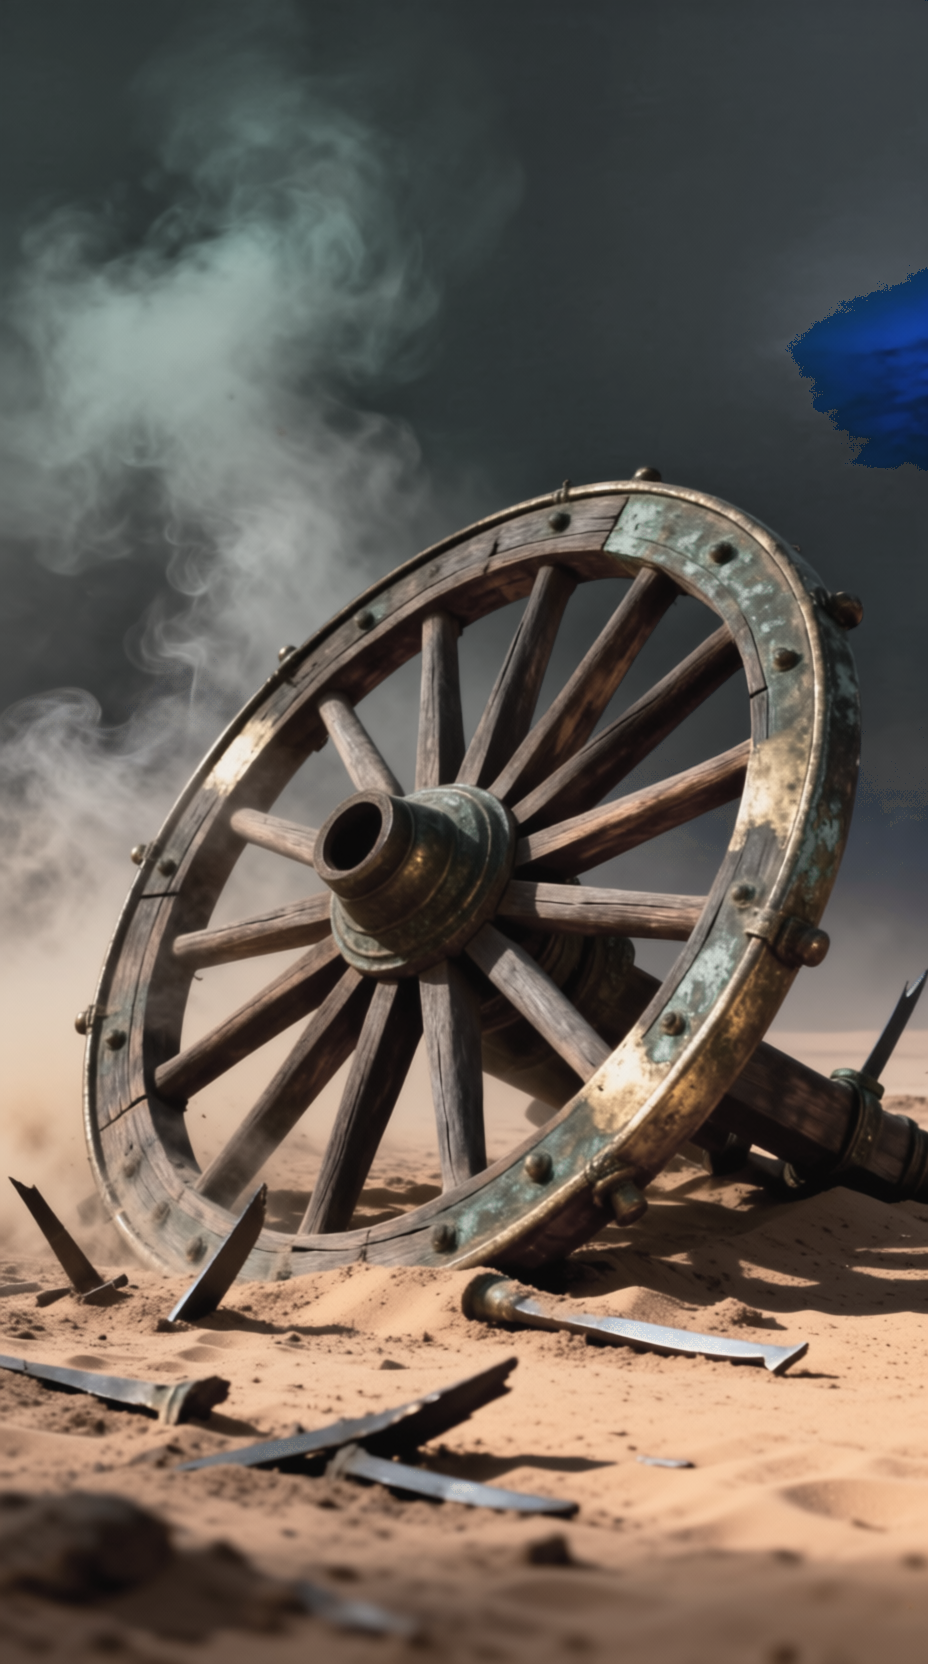
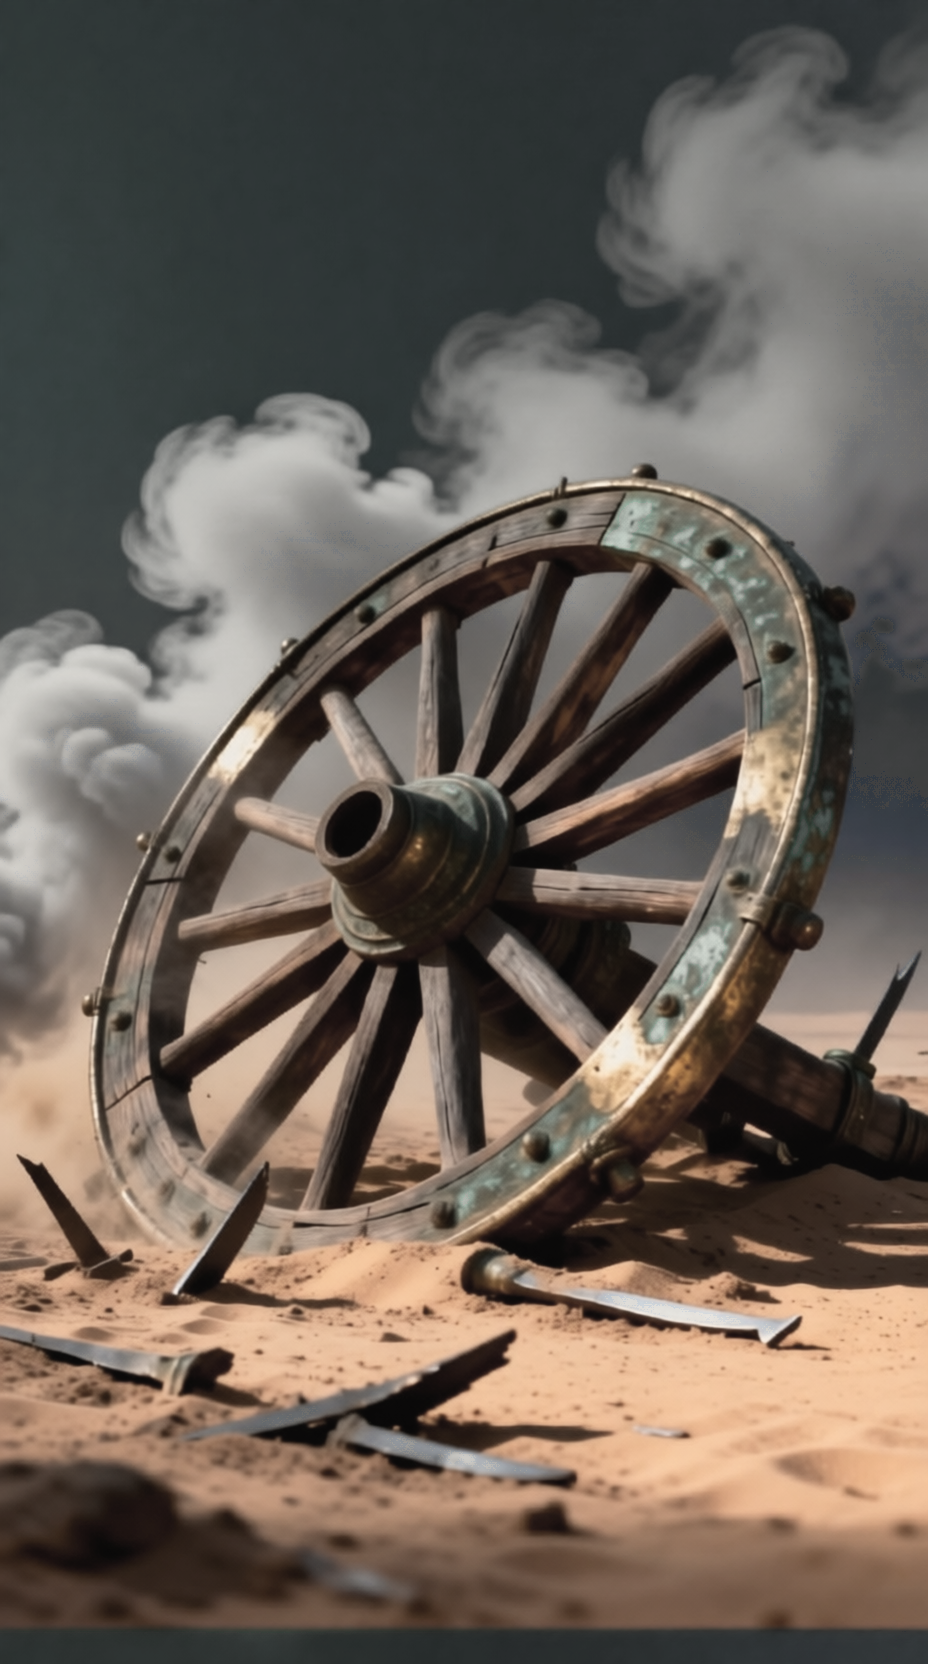
v6 storyboard: 21 graded frames built from the five masters
Fixed masters (no blue on soldiers in M1, no blue patch in M5), frames
f01-f21 in refs/v6/frames, review sheet refs/v6/storyboard_v6.jpg.
qwen_edit.py gains a second reference image (image2).

Claude-Session: https://claude.ai/code/session_01JMNgZUr1LX5SEDfS7KQBiY

diff --git a/scripts/qwen_edit.py b/scripts/qwen_edit.py
@@ -1,7 +1,7 @@
 #!/usr/bin/env python3
 """Queue Qwen-Image-Edit 2511 jobs on the Slow Light ComfyUI pod.
 
-Usage: qwen_edit.py JOBS.json   (list of {"name", "prompt", "seed", "image"?, "steps"?, "cfg"?, "lora"?, "neg"?})
+Usage: qwen_edit.py JOBS.json   (list of {"name", "prompt", "seed", "image"?, "image2"?, "steps"?, "cfg"?, "lora"?, "neg"?})
 Defaults are the fast 4-step Lightning draft; set lora=false, steps=40, cfg=4 for full quality.
 Refine a draft: "init" (an input-folder image) + "denoise" (~0.5) keeps its composition.
 Submits via curl (Cloudflare blocks Python's default user agent).
@@ -12,7 +12,7 @@ B = os.environ.get("COMFY_URL", "https://zl14vlosbt1es1-8188.proxy.runpod.net")
 W, H = 928, 1664  # 9:16
 
 
-def graph(prompt, seed, image, prefix, steps=4, cfg=1.0, lora=True, neg="", init=None, denoise=1.0):
+def graph(prompt, seed, image, prefix, steps=4, cfg=1.0, lora=True, neg="", init=None, denoise=1.0, image2=None):
     g = {
         "1": {"class_type": "UNETLoader", "inputs": {"unet_name": "qwen_image_edit_2511_fp8mixed.safetensors", "weight_dtype": "default"}},
         "2": {"class_type": "LoraLoaderModelOnly", "inputs": {"model": ["1", 0], "lora_name": "Qwen-Image-Edit-2511-Lightning-4steps-V1.0-bf16.safetensors", "strength_model": 1.0 if lora else 0.0}},
@@ -31,6 +31,10 @@ def graph(prompt, seed, image, prefix, steps=4, cfg=1.0, lora=True, neg="", init
         "14": {"class_type": "VAEDecode", "inputs": {"samples": ["13", 0], "vae": ["6", 0]}},
         "15": {"class_type": "SaveImage", "inputs": {"images": ["14", 0], "filename_prefix": prefix}},
     }
+    if image2:  # second reference picture (e.g. a character plus a prop)
+        g["23"] = {"class_type": "LoadImage", "inputs": {"image": image2}}
+        for n in ("8", "9"):
+            g[n]["inputs"]["image2"] = ["23", 0]
     if init:  # refine an existing draft: start from its latent, keep the composition
         g["20"] = {"class_type": "LoadImage", "inputs": {"image": init}}
         g["21"] = {"class_type": "ImageScale", "inputs": {"image": ["20", 0], "upscale_method": "lanczos", "width": W, "height": H, "crop": "center"}}
@@ -47,7 +51,7 @@ def graph(prompt, seed, image, prefix, steps=4, cfg=1.0, lora=True, neg="", init
 for job in json.load(open(sys.argv[1])):
     g = graph(job["prompt"], job["seed"], job.get("image"), f"slowlight/{job['name']}_s{job['seed']}",
               job.get("steps", 4), job.get("cfg", 1.0), job.get("lora", True), job.get("neg", ""),
-              job.get("init"), job.get("denoise", 1.0))
+              job.get("init"), job.get("denoise", 1.0), job.get("image2"))
     out = subprocess.run(["curl", "-sS", "-m", "60", "-H", "Content-Type: application/json", "-d", "@-", B + "/prompt"],
                          input=json.dumps({"prompt": g}), capture_output=True, text=True).stdout
     print(job["name"], job["seed"], out.strip()[:300])
